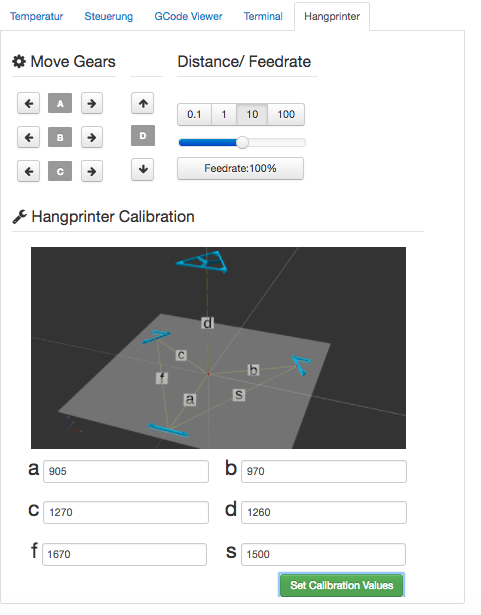
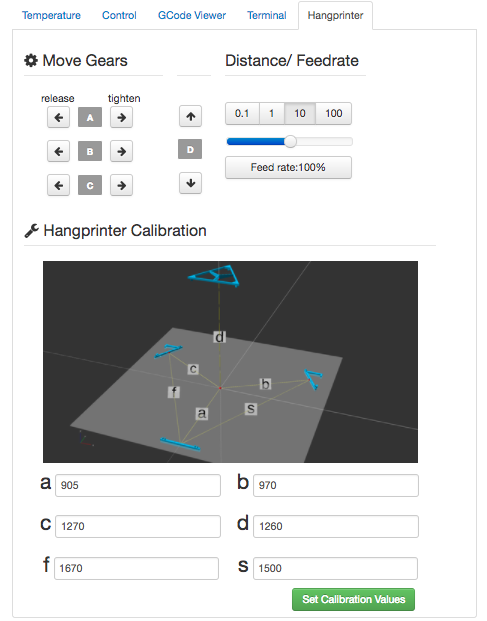
added feedrate and changed screenshot

diff --git a/README.md b/README.md
@@ -1,6 +1,6 @@
 # OctoPrint-Hangprinter
 
-A simple plugin which will help to setup a Hangprinter. ( http://hangprinter.org )
+**TODO:** Describe what your plugin does.
 
 ## Setup
 
@@ -9,12 +9,9 @@ or manually using this URL:
 
     https://github.com/mariolukas/OctoPrint-Hangprinter/archive/master.zip
 
+**TODO:** Describe how to install your plugin, if more needs to be done than just installing it via pip or through
+the plugin manager.
 
 ## Configuration
 
-![Screenshot of Hangprinter Octoprin Plugin](screenshot.jpg?raw=true "Screenshot of Hangprinter Octoprin Plugin]")
-
-The controls can be used to unwind all gears seperatly. The bottom form can be used to enter the 
-measurements for the hangprinter setup. By pressing the "Set Calibration Values" Button, all values
-are calculated and stored in the EEPROM of the printer. Keep in mind that EEPROM option is not 
-activated in the Hangprinter Marlin Firmware by default. You need to enable this Option.
+**TODO:** Describe your plugin's configuration options (if any).
